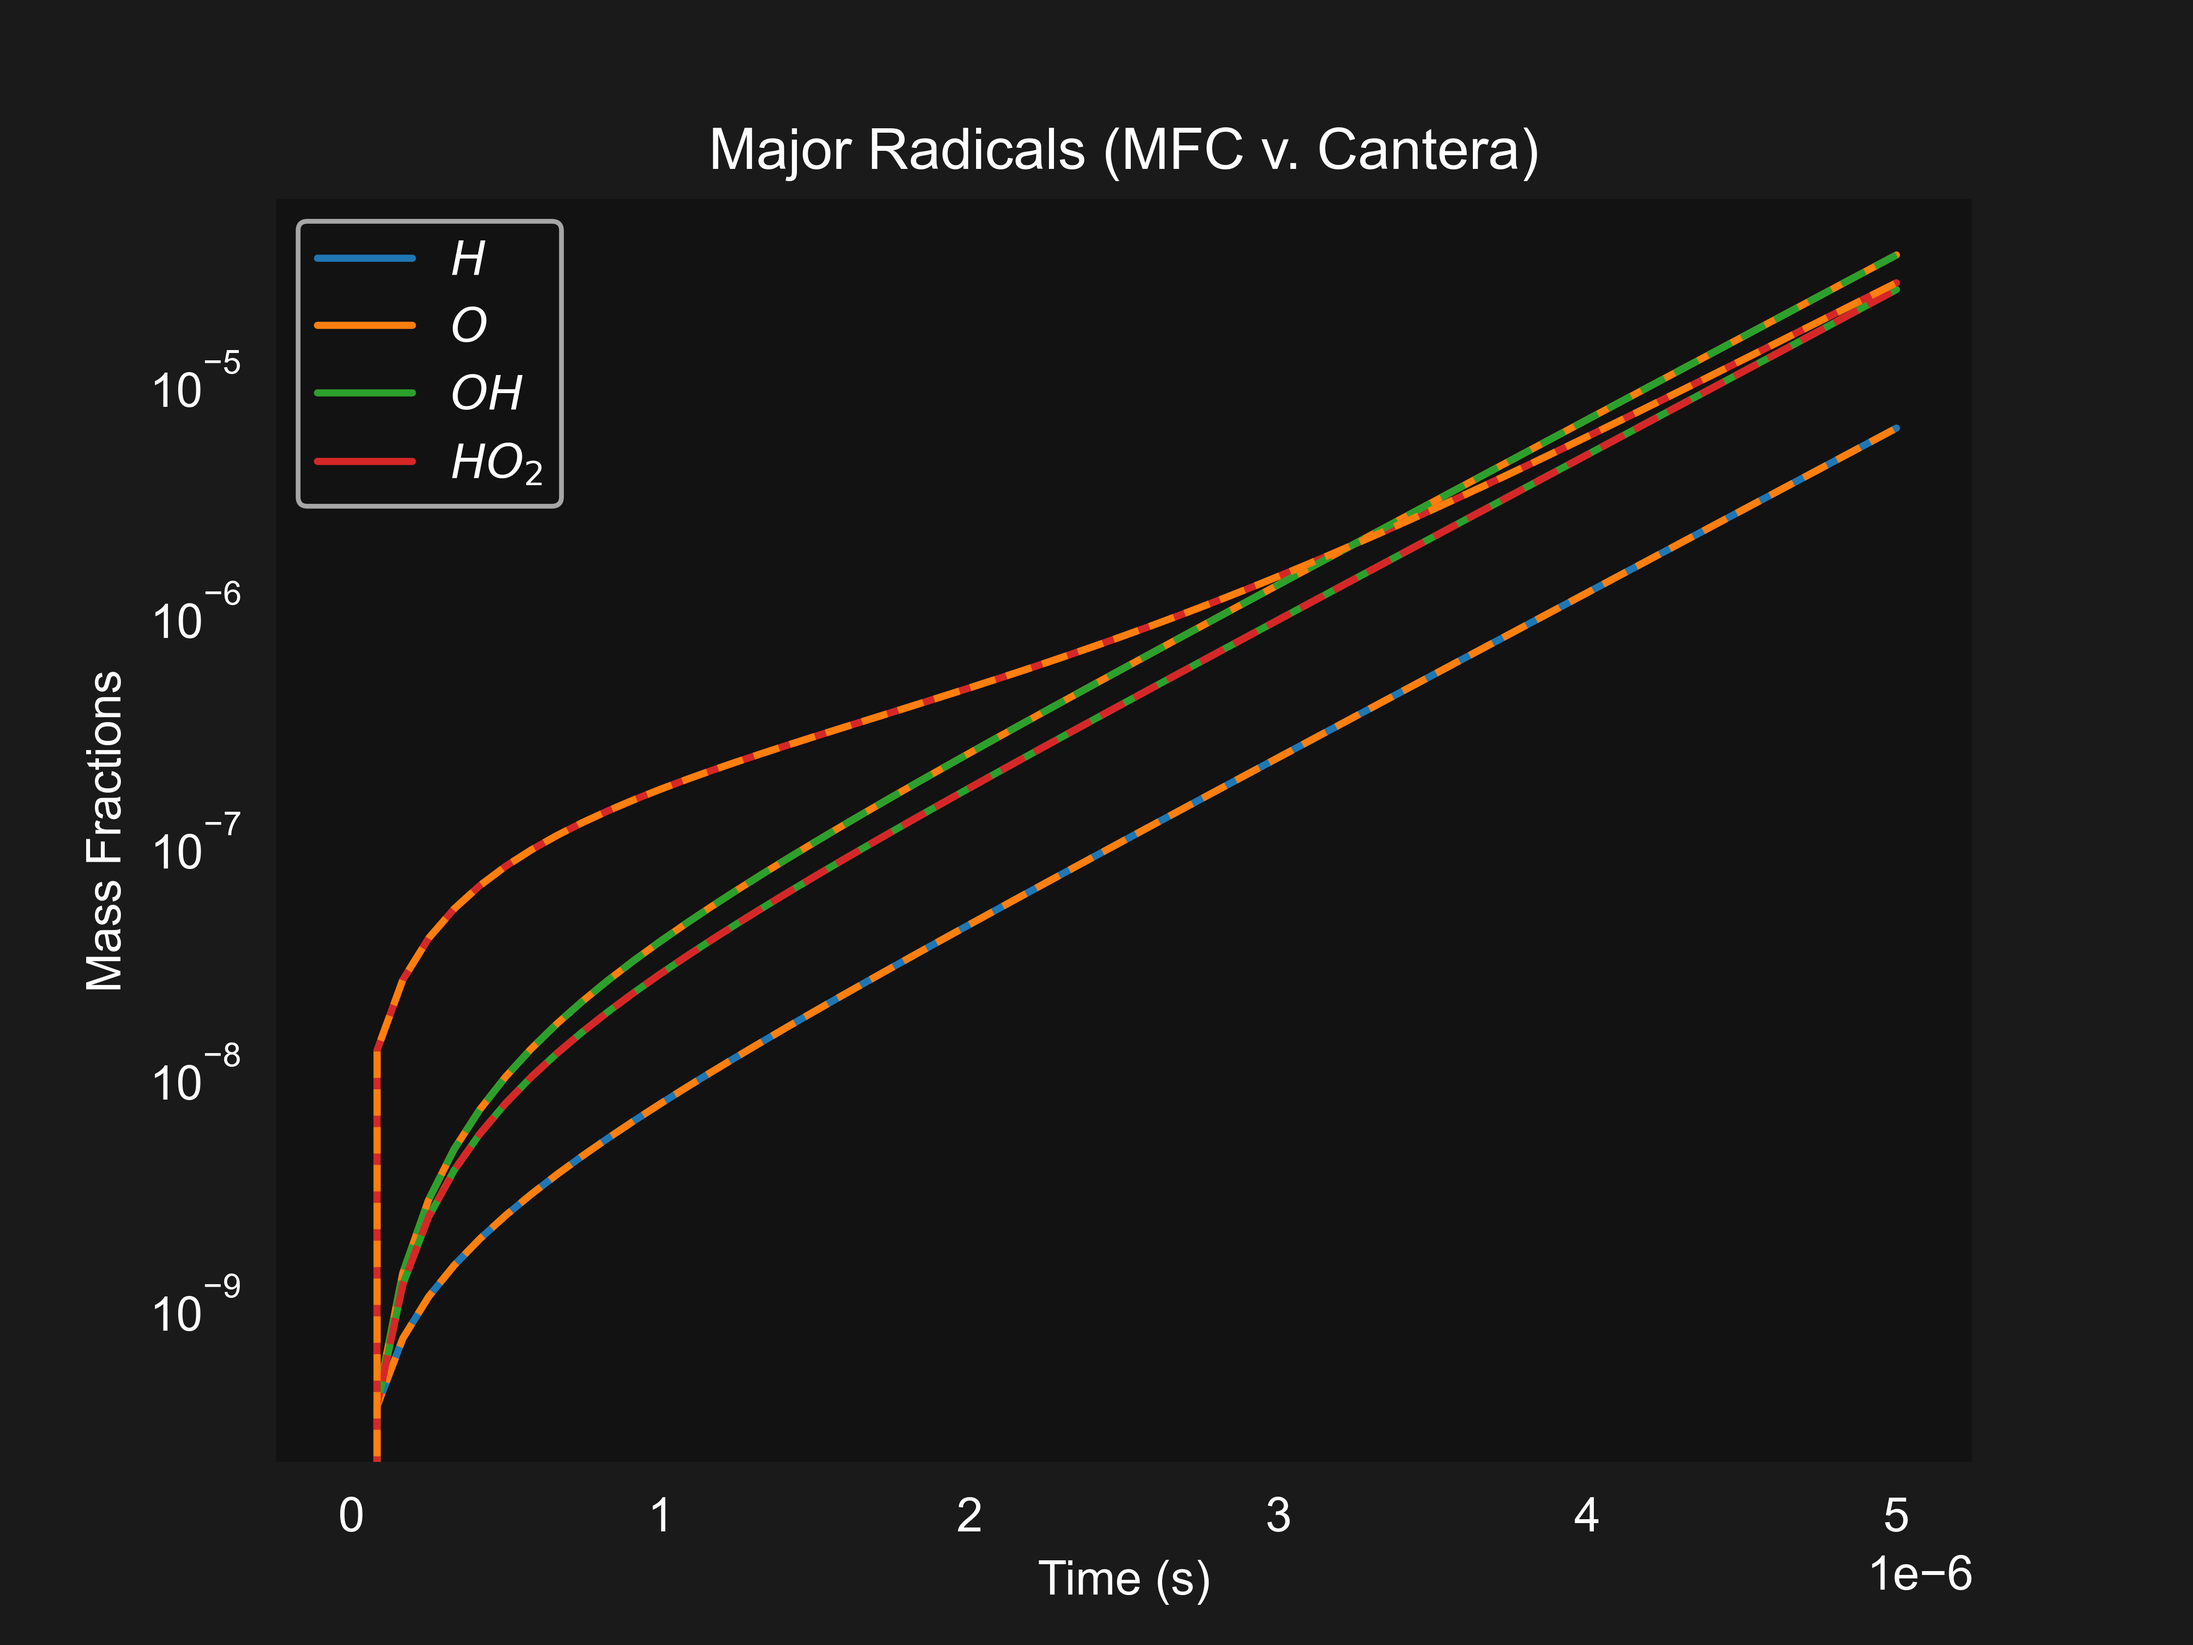
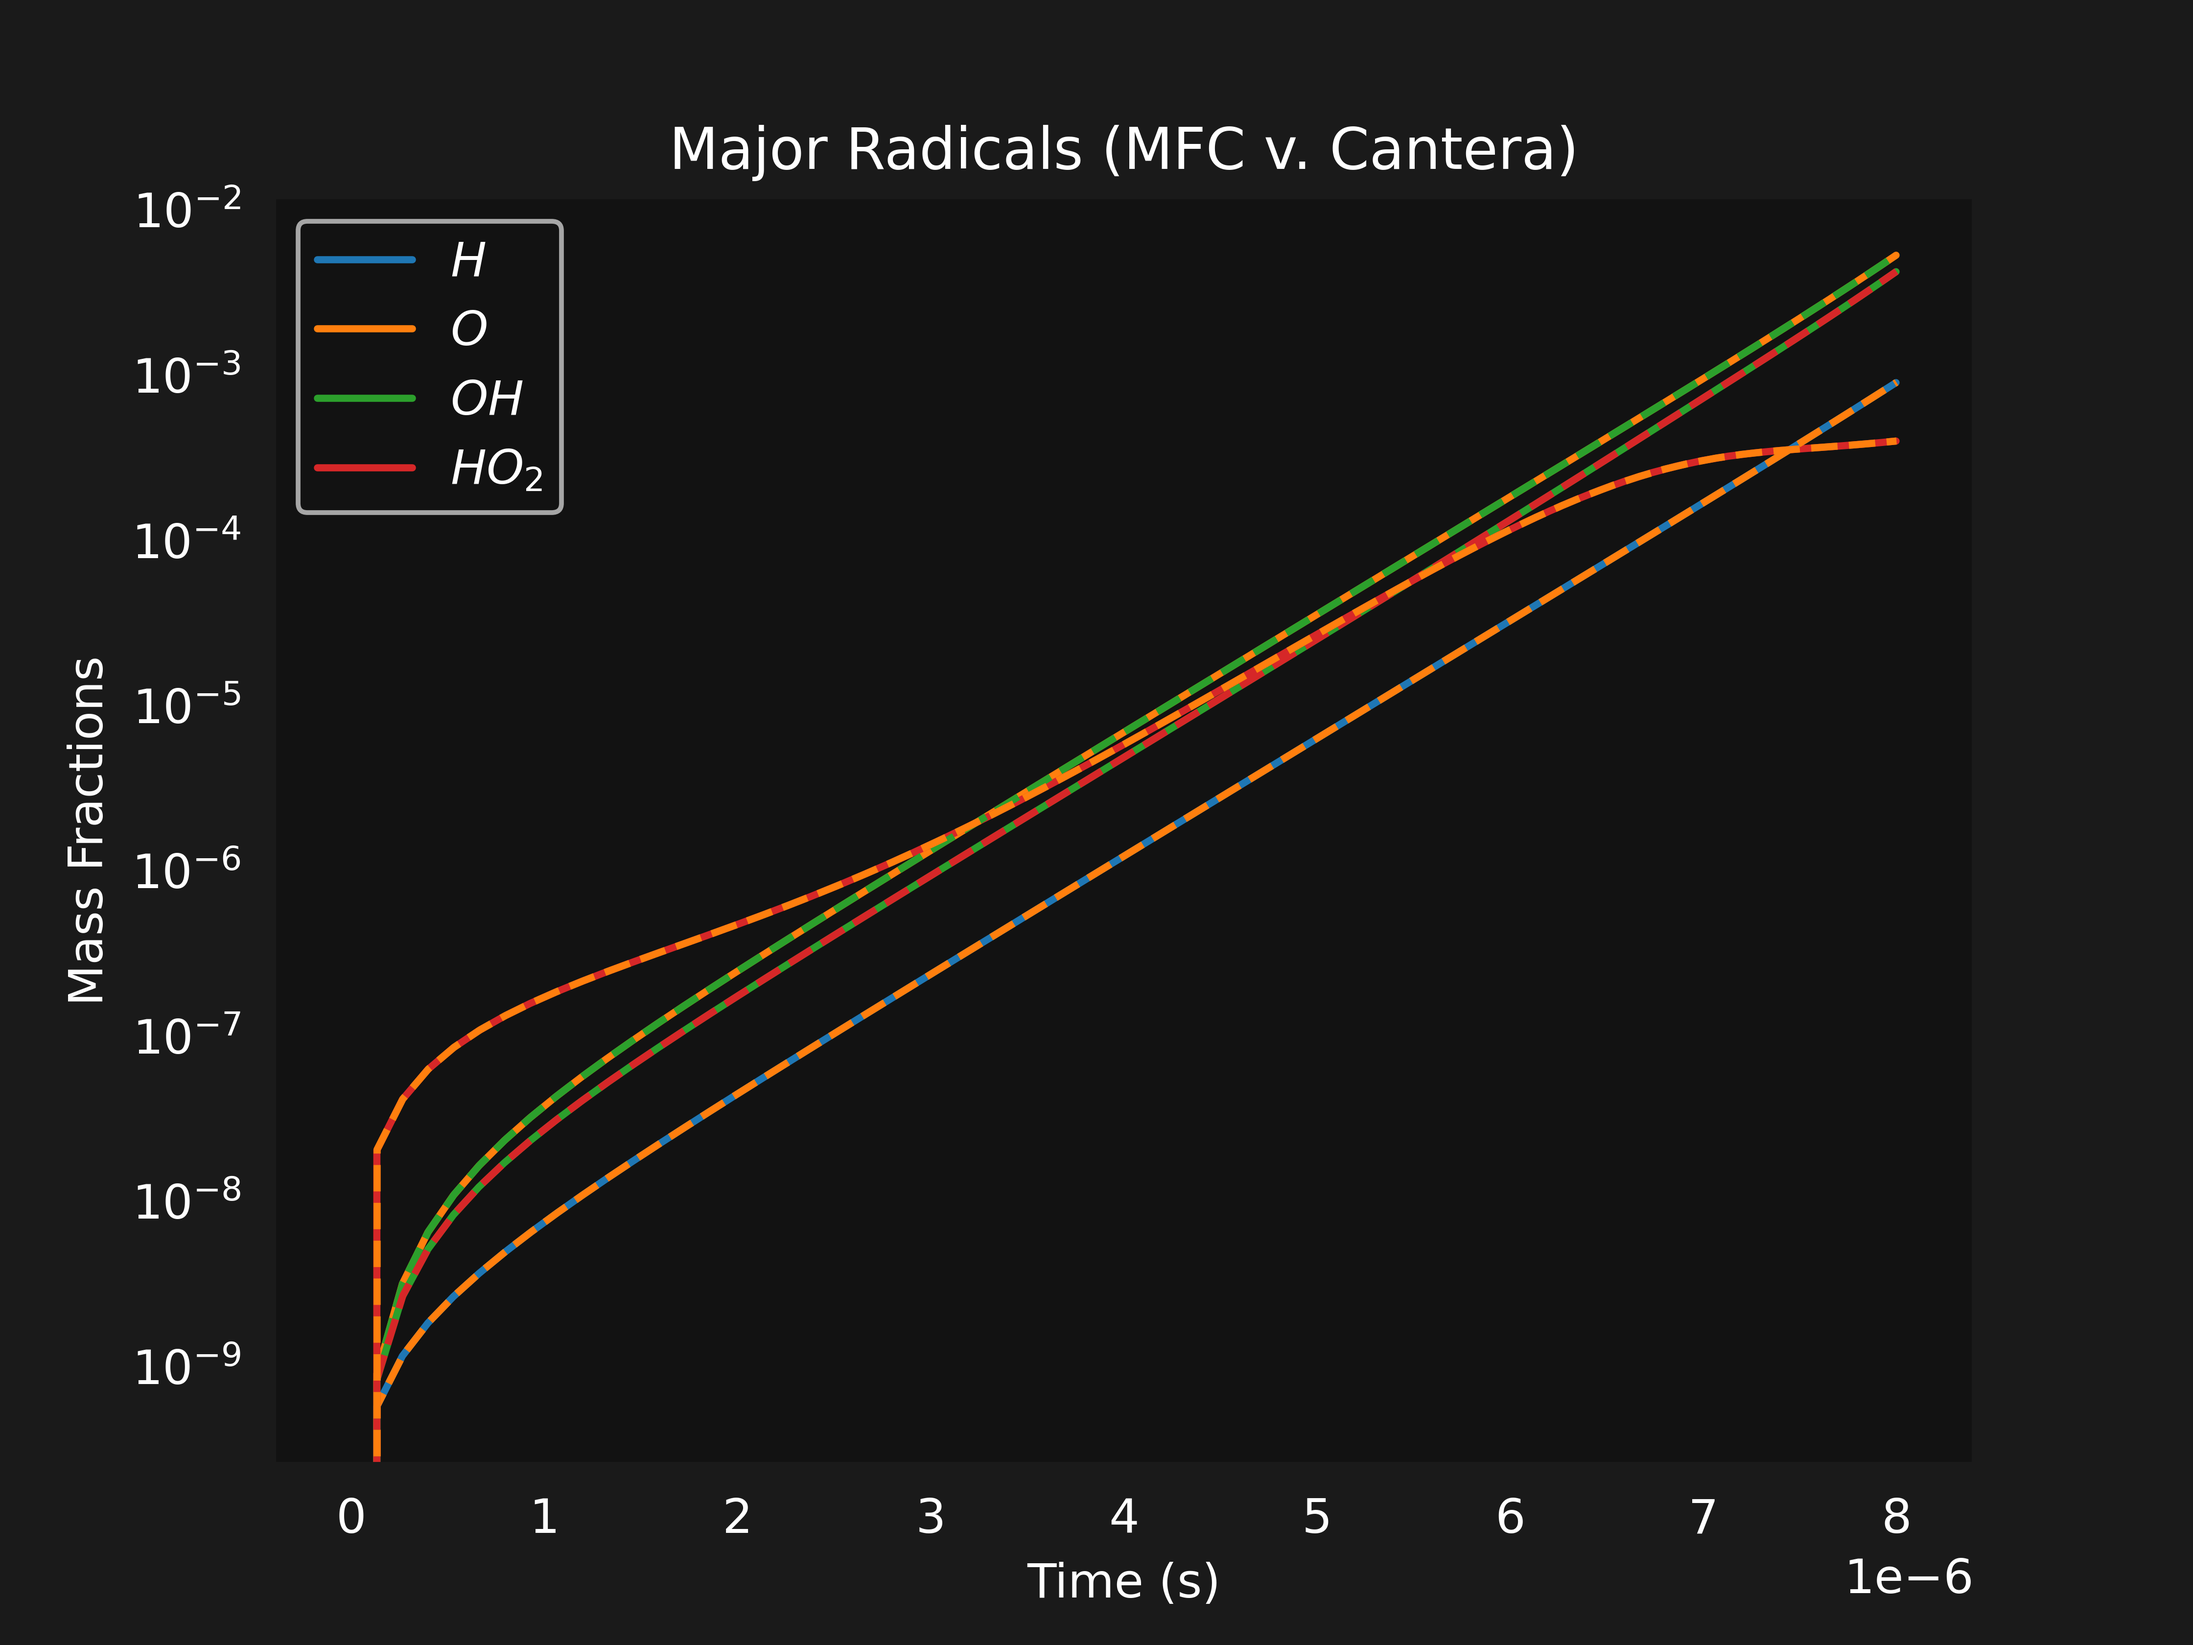
Change in Flux and Energy

diff --git a/examples/chemistry/1D_shocktube/case.py b/examples/chemistry/1D_shocktube/case.py
@@ -11,9 +11,9 @@ sol     = ct.Solution(ctfile)
 sol.TPX = 1000, ct.one_atm, 'H2:2,O2:1,AR:7'
 
 sol_l = ct.Solution(ctfile)
-sol_l.TPX = 900, 7173,  'H2:2,O2:1,AR:7'
+sol_l.TPX = 378.2519, 7173,  'H2:2,O2:1,AR:7'
 sol_r = ct.Solution(ctfile)
-sol_r.TPX = 500, 35594, 'H2:2,O2:1,AR:7'
+sol_r.TPX = 747.67244, 35594, 'H2:2,O2:1,AR:7'
 
 rho_l = sol_l.density
 u_l   = 0
@@ -25,12 +25,12 @@ p_r   = sol_r.P
 L  = 0.12
 Nx = 400
 dx = L/Nx
-dt = dx/abs(u_r)*0.1
-Tend=230e-6
+dt = dx/abs(u_r)*0.01
+Tend=100e-9
 
 NT=int(Tend/dt)
-SAVE_COUNT=200
-NS=NT//SAVE_COUNT
+SAVE_COUNT=1
+NS=1
 
 chemistry = True
 
@@ -72,10 +72,10 @@ case = {
     'bc_x%end'                     :-8,
 
     # Chemistry ================================================================
-    'chemistry'                    : 'F' if not chemistry else 'T',
+    'chemistry'                    : 'T' if not chemistry else 'T',
     'chem_params%advection'        : 'T',
     'chem_params%diffusion'        : 'F',
-    'chem_params%reactions'        : 'T',
+    'chem_params%reactions'        : 'F',
     # ==========================================================================
 
     # Formatted Database Files Structure Parameters ============================
@@ -105,7 +105,7 @@ case = {
     # ==========================================================================
 
     # Fluids Physical Parameters ===============================================
-    'fluid_pp(1)%gamma'            : 1.0E+00/(4.4E+00-1.0E+00),
+    'fluid_pp(1)%gamma'            : 1.0E+00/(1.55E+00-1.0E+00),
     'fluid_pp(1)%pi_inf'           : 0,
     # ==========================================================================
 

diff --git a/examples/chemistry/1D_inert_shocktube/case.py b/examples/chemistry/1D_inert_shocktube/case.py
@@ -15,12 +15,12 @@ sol_R.TPX = 1200, 80000, 'H2:2,O2:1,AR:7'
 L    = 0.10
 Nx   = 400
 dx   = L/Nx
-dt   = 5e-9
+dt   = 1e-7
 Tend = 40e-6
 
 NT=int(Tend/dt)
-SAVE_COUNT=200
-NS=NT//SAVE_COUNT
+SAVE_COUNT=3
+NS=3
 
 chemistry = True
 
@@ -59,13 +59,13 @@ case = {
     'wave_speeds'                  : 1,
     'avg_state'                    : 2,
     'bc_x%beg'                     :-2,
-    'bc_x%end'                     :-8,
+    'bc_x%end'                     :-2,
 
     # Chemistry ================================================================
-    'chemistry'                    : 'F' if not chemistry else 'T',
+    'chemistry'                    : 'T' if not chemistry else 'T',
     'chem_params%advection'        : 'T',
     'chem_params%diffusion'        : 'F',
-    'chem_params%reactions'        : 'T',
+    'chem_params%reactions'        : 'F',
     # ==========================================================================
 
     # Formatted Database Files Structure Parameters ============================
@@ -93,7 +93,7 @@ case = {
     # ==========================================================================
 
     # Fluids Physical Parameters ===============================================
-    'fluid_pp(1)%gamma'            : 1.0E+00/(4.4E+00-1.0E+00),
+    'fluid_pp(1)%gamma'            : 1.0E+00/(1.55E+00-1.0E+00),
     'fluid_pp(1)%pi_inf'           : 0,
     # ==========================================================================
 

diff --git a/misc/viz.py b/misc/viz.py
@@ -101,7 +101,7 @@ ARGS        = vars(parser.parse_args())
 DIRPATH     = os.path.abspath(ARGS['case_dir'])
 OUTDIR      = os.path.join(DIRPATH, 'viz')
 CASENAME    = os.path.basename(DIRPATH)
-DESCRIPTION = "0D React - Chemistry = T, Advection = T, Diffusion = F, Reactions = T"
+DESCRIPTION = "1D Intert_Gas- Chemistry = T, Advection = T, Diffusion = F, Reactions = F"
 
 TARGET_ASPECT_RATIO = 16 / 9
 

diff --git a/examples/chemistry/0D_reactor/case.py b/examples/chemistry/0D_reactor/case.py
@@ -11,8 +11,8 @@ sol     = ct.Solution(ctfile)
 
 sol.TPX = 1300, ct.one_atm, {'H2': 0.43, 'O2': 1.6*0.43, 'AR': 1 - 0.43 - 1.6*0.43}
 
-dt = 1e-9
-Tend = 5e-6
+dt = 2e-9
+Tend = 8e-6
 
 NT=int(Tend/dt)
 SAVE_COUNT=60
